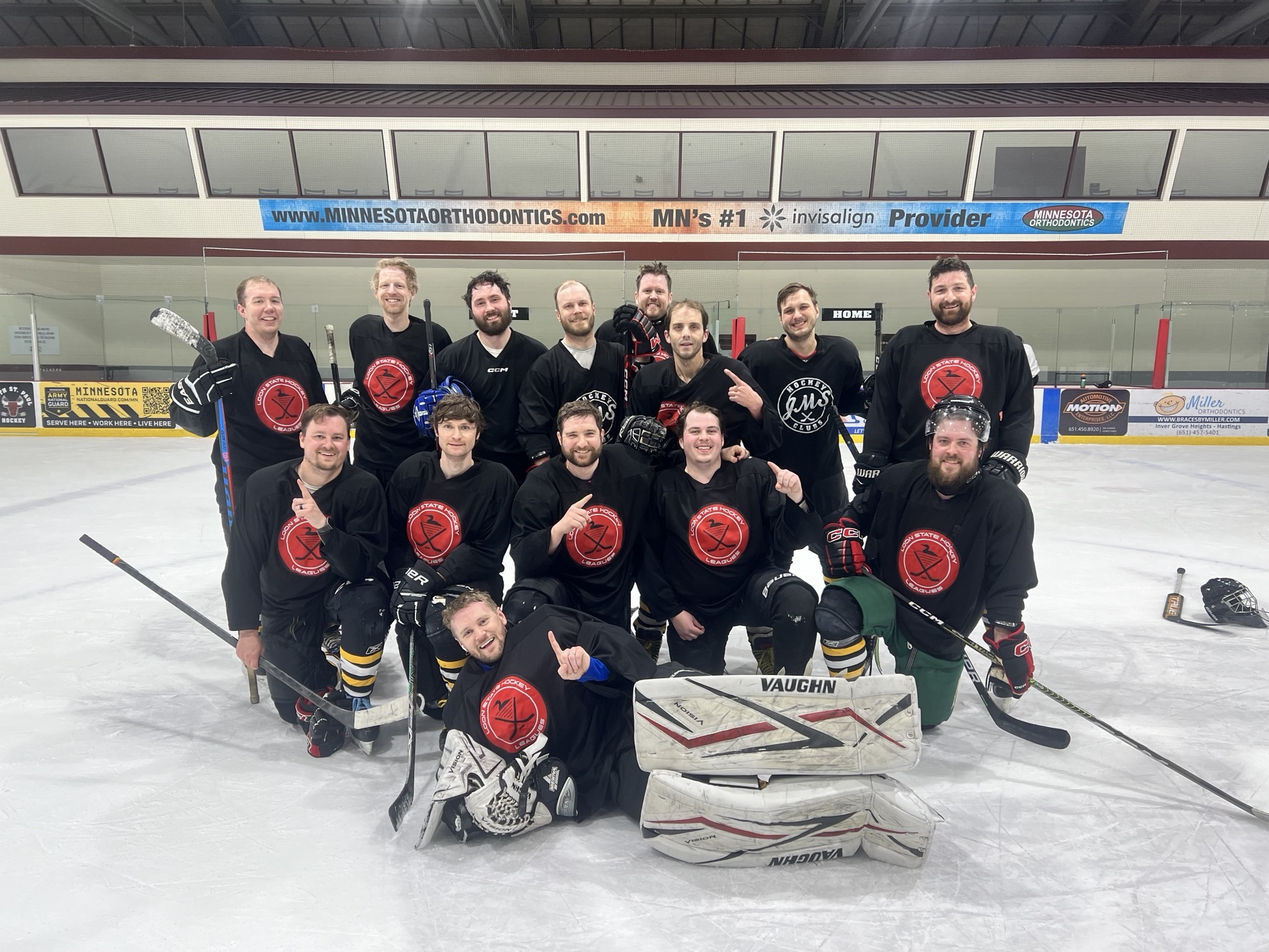
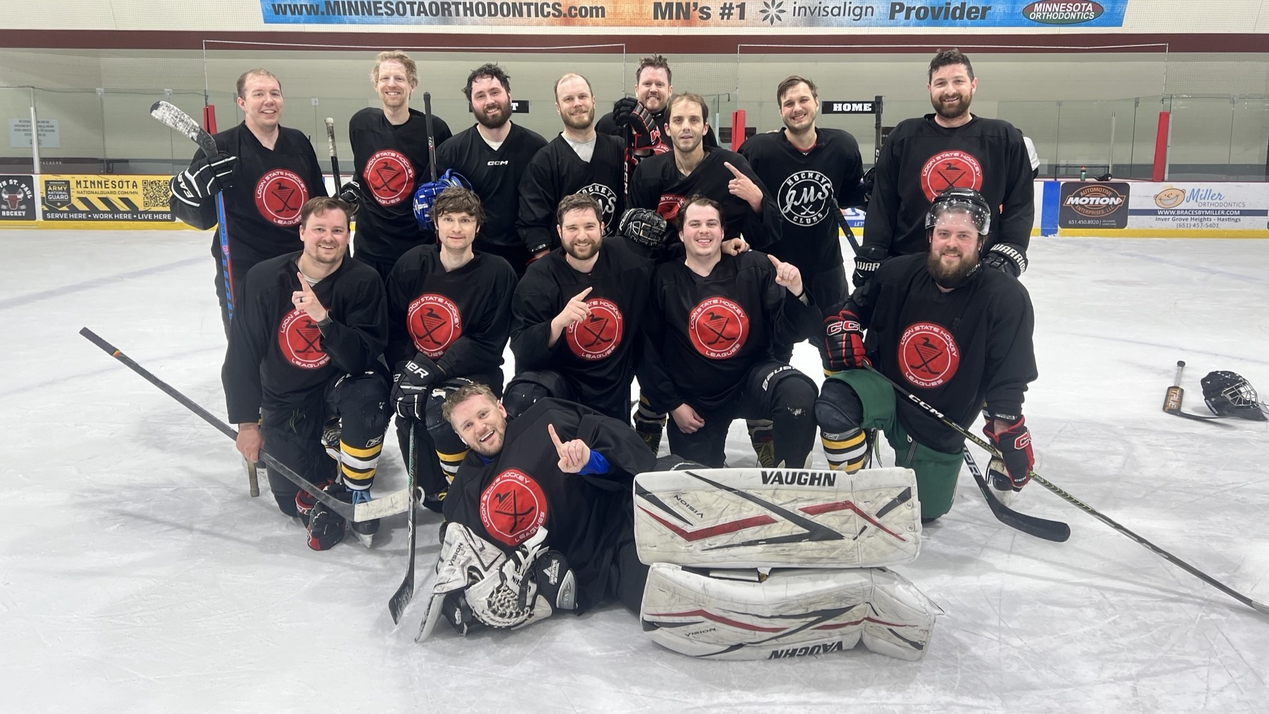
Added smaller file size photo

diff --git a/client/components/Hero.jsx b/client/components/Hero.jsx
@@ -59,7 +59,8 @@ export default function Hero() {
       </div>
 
       <img
-        src="/assets/images/03_24_2024_Winter_Championship.jpeg"
+        src="/assets/images/03_24_2024_winter_championship.jpg"
+        alt="Team photo"
         style={{ maxWidth: "80vw" }}
       />
 
